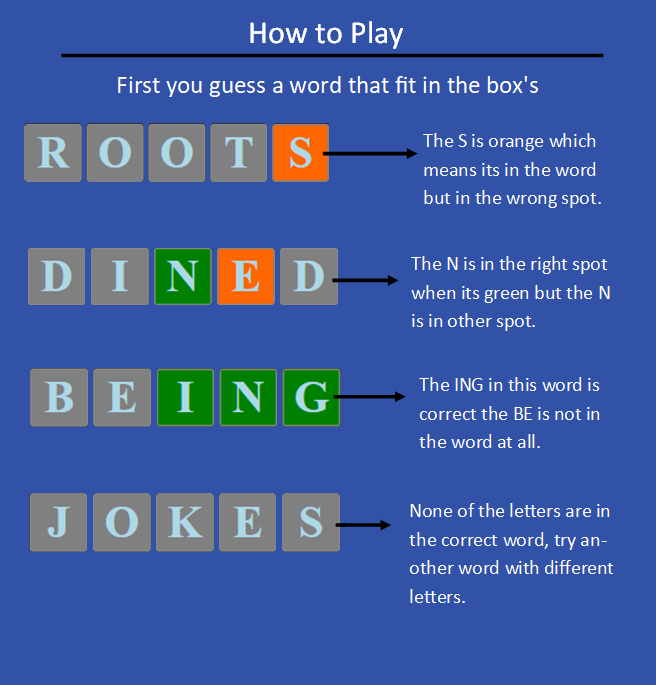
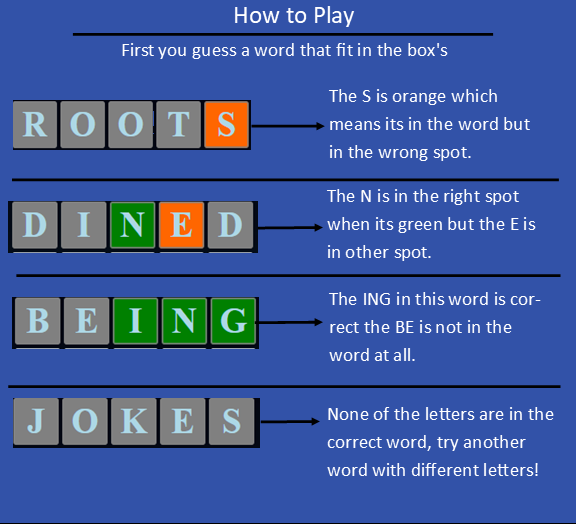
commiting

Changed region(s): [[0.0, 0.3359, 0.9688, 0.7023], [0.0, 0.0, 0.9375, 0.3053], [0.0, 0.7023, 0.9688, 0.916]]

diff --git a/copy contents of folder into deploy to update/all/medium/style.css b/copy contents of folder into deploy to update/all/medium/style.css
@@ -176,6 +176,7 @@ p2 {
   bottom: 0%;
   scale: 40%;
 }
+
 .topbar {
   margin: 0;
   color: lightblue;
@@ -183,6 +184,13 @@ p2 {
 }
 
 .howto {
-  
-  scale: 50%;
+  position: fixed;
+  top: 20px;
+  left: 20px;
+  border: 3px solid #23466d;
+  border-radius: 20px;
+  padding: 1px;
+  max-width: 30%;
+  height: auto;
+
 }

diff --git a/copy contents of folder into deploy to update/index.html b/copy contents of folder into deploy to update/index.html
@@ -61,7 +61,7 @@
         <img src="pic/fbla logo.png" alt="FBLA Logo" class="fblalogo">
     </a>
     <a href="index.html">
-        <img src="./pic/HowToPlay.png" alt="How TO Guide" class="howto">
+        <img src="./pic/HowToPlay.png" alt="How To Guide" class="howto">
     </a>
 </div>
 </body>
